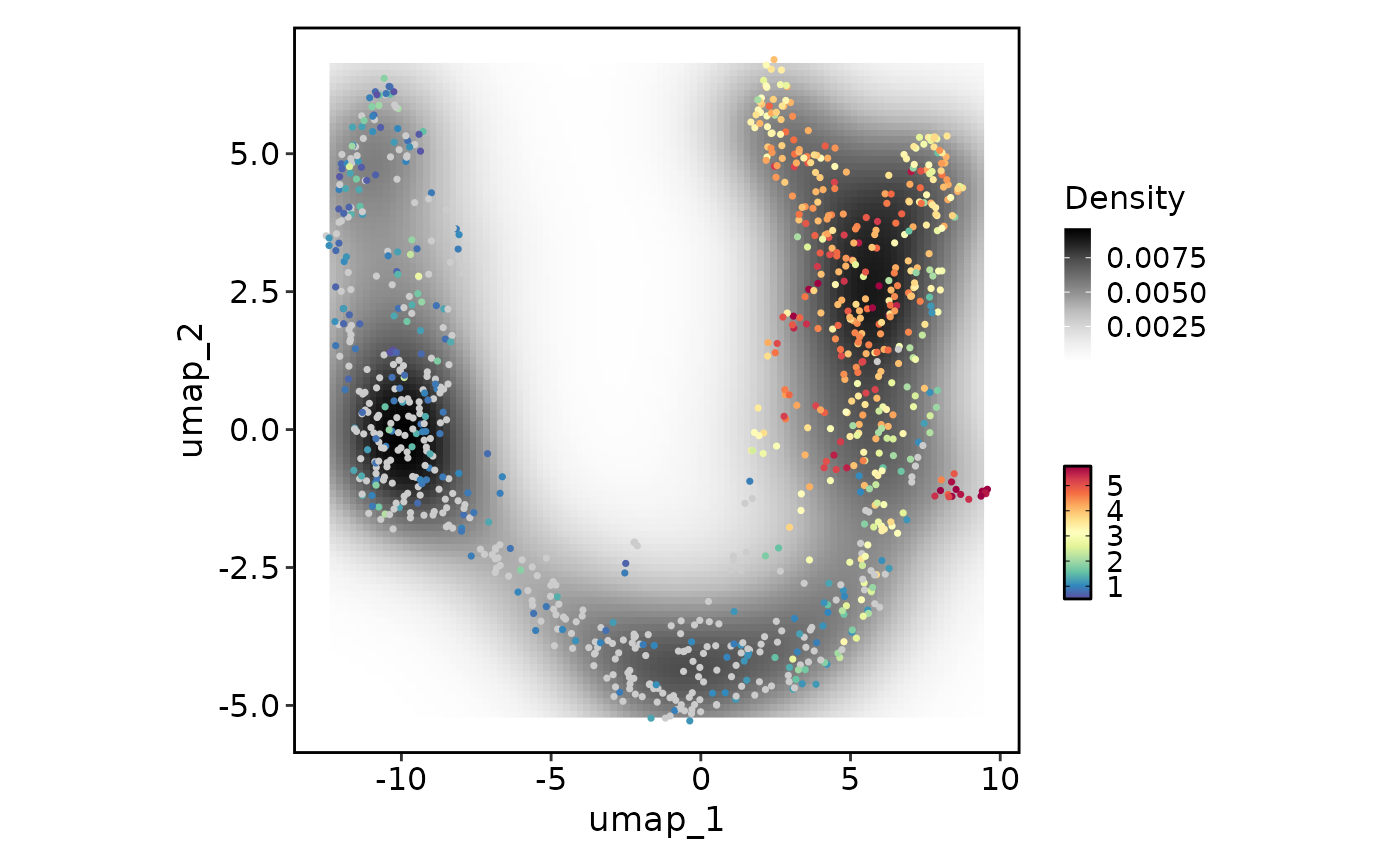
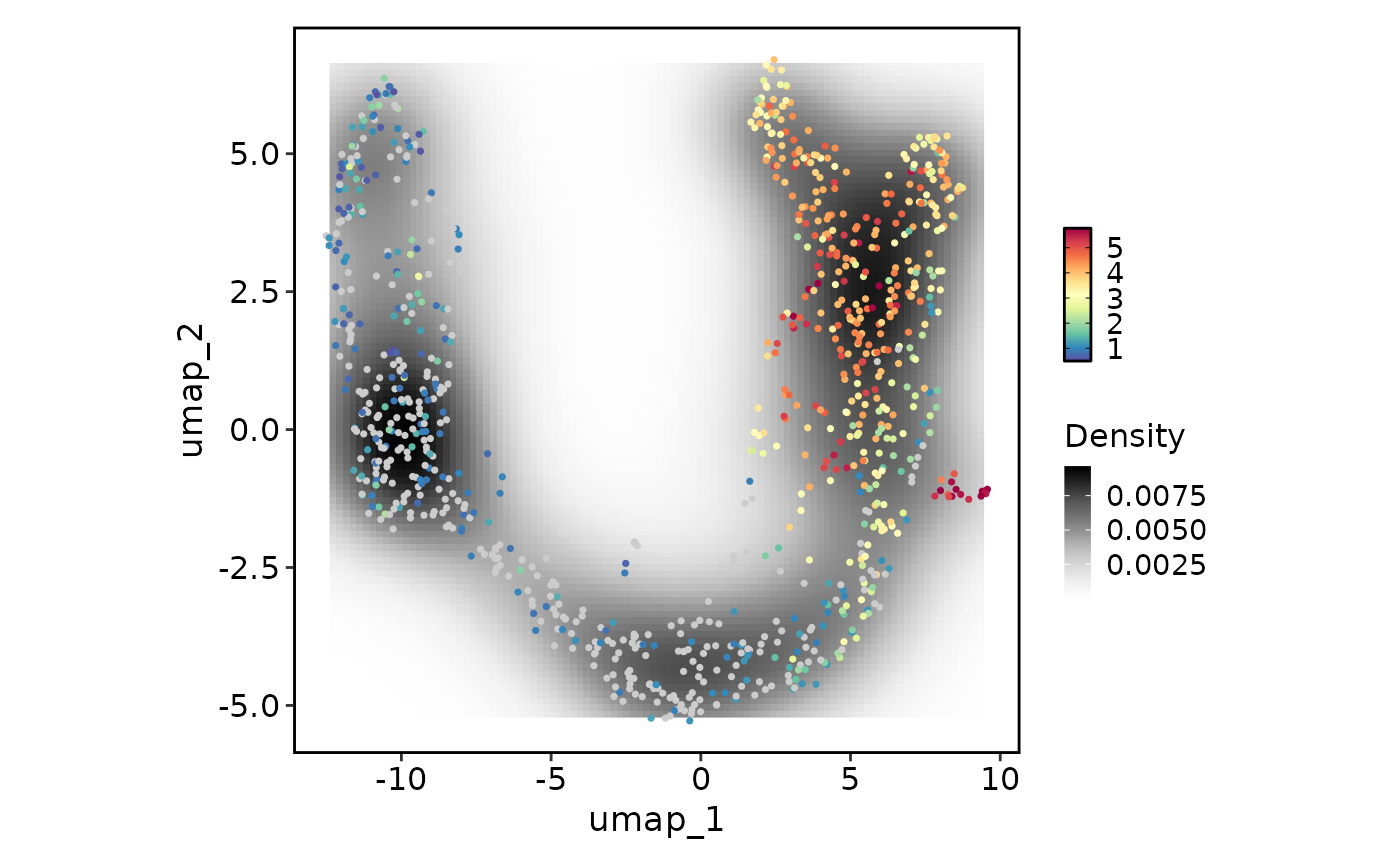
Deploying to gh-pages from @ pwwang/scplotter@fe382f76495dcb9b5c524df514f2df25f0bd13cd 🚀

Changed region(s): [[0.7371, 0.2182, 0.86, 0.4365], [0.7371, 0.4988, 0.86, 0.7171]]

diff --git a/articles/Visualizing_data_with_LLMs.html b/articles/Visualizing_data_with_LLMs.html
@@ -25,7 +25,7 @@
 
     <a class="navbar-brand me-2" href="../index.html">scplotter</a>
 
-    <small class="nav-text text-muted me-auto" data-bs-toggle="tooltip" data-bs-placement="bottom" title="">0.7.5</small>
+    <small class="nav-text text-muted me-auto" data-bs-toggle="tooltip" data-bs-placement="bottom" title="">0.7.6</small>
 
 
     <button class="navbar-toggler" type="button" data-bs-toggle="collapse" data-bs-target="#navbar" aria-controls="navbar" aria-expanded="false" aria-label="Toggle navigation">
@@ -947,7 +947,7 @@ for visualization.</p>
 <span><span class="co">#&gt; required to skim dataframes. Skim summary of dataframes currently not shown in</span></span>
 <span><span class="co">#&gt; prompt</span></span>
 <span><span class="co">#&gt; Code ran:</span></span>
-<span><span class="co">#&gt; CCCPlot(data = cellphonedb_res)</span></span></code></pre></div>
+<span><span class="co">#&gt; CCCPlot(cellphonedb_res)</span></span></code></pre></div>
 <p><img src="Visualizing_data_with_LLMs_files/figure-html/unnamed-chunk-6-1.png" class="r-plt" alt="" width="672"></p>
 <div class="sourceCode" id="cb7"><pre class="downlit sourceCode r">
 <code class="sourceCode R"><span><span class="co"># Previous conversation is memorized</span></span>
@@ -960,7 +960,7 @@ for visualization.</p>
 <span><span class="co">#&gt; required to skim dataframes. Skim summary of dataframes currently not shown in</span></span>
 <span><span class="co">#&gt; prompt</span></span>
 <span><span class="co">#&gt; Code ran:</span></span>
-<span><span class="co">#&gt; CCCPlot(data = cellphonedb_res, plot_type = "heatmap")</span></span></code></pre></div>
+<span><span class="co">#&gt; CCCPlot(cellphonedb_res, plot_type = "heatmap")</span></span></code></pre></div>
 <p><img src="Visualizing_data_with_LLMs_files/figure-html/unnamed-chunk-7-1.png" class="r-plt" alt="" width="672"></p>
 <div class="sourceCode" id="cb8"><pre class="downlit sourceCode r">
 <code class="sourceCode R"><span><span class="va">chat</span><span class="op">$</span><span class="fu">ask</span><span class="op">(</span><span class="st">"Add a proper title to the plot"</span><span class="op">)</span></span>
@@ -972,18 +972,18 @@ for visualization.</p>
 <span><span class="co">#&gt; required to skim dataframes. Skim summary of dataframes currently not shown in</span></span>
 <span><span class="co">#&gt; prompt</span></span>
 <span><span class="co">#&gt; Code ran:</span></span>
-<span><span class="co">#&gt; CCCPlot(data = cellphonedb_res, plot_type = "heatmap", title = "Cell-Cell Communication Heatmap")</span></span></code></pre></div>
+<span><span class="co">#&gt; CCCPlot(cellphonedb_res, plot_type = "heatmap", title = "Cell-Cell Communication Heatmap")</span></span></code></pre></div>
 <p><img src="Visualizing_data_with_LLMs_files/figure-html/unnamed-chunk-8-1.png" class="r-plt" alt="" width="672"></p>
 <div class="sourceCode" id="cb9"><pre class="downlit sourceCode r">
 <code class="sourceCode R"><span><span class="co"># To fetch the previous conversation</span></span>
 <span><span class="co"># Note that the response from the LLM is simplified in the history</span></span>
 <span><span class="va">chat</span><span class="op">$</span><span class="fu">get_history</span><span class="op">(</span><span class="op">)</span></span>
-<span><span class="co">#&gt; [1] "User: Generate a cell-cell communication plot for the cellphonedb_res data."                                                                                               </span></span>
-<span><span class="co">#&gt; [2] "Assistant: tool - CCCPlot; data - scplotter::cellphonedb_res; code - CCCPlot(data = cellphonedb_res)"                                                                      </span></span>
-<span><span class="co">#&gt; [3] "User: Do a heatmap instead"                                                                                                                                                </span></span>
-<span><span class="co">#&gt; [4] "Assistant: tool - CCCPlot; data - scplotter::cellphonedb_res; code - CCCPlot(data = cellphonedb_res, plot_type = \"heatmap\")"                                             </span></span>
-<span><span class="co">#&gt; [5] "User: Add a proper title to the plot"                                                                                                                                      </span></span>
-<span><span class="co">#&gt; [6] "Assistant: tool - CCCPlot; data - scplotter::cellphonedb_res; code - CCCPlot(data = cellphonedb_res, plot_type = \"heatmap\", title = \"Cell-Cell Communication Heatmap\")"</span></span>
+<span><span class="co">#&gt; [1] "User: Generate a cell-cell communication plot for the cellphonedb_res data."                                                                                        </span></span>
+<span><span class="co">#&gt; [2] "Assistant: tool - CCCPlot; data - scplotter::cellphonedb_res; code - CCCPlot(cellphonedb_res)"                                                                      </span></span>
+<span><span class="co">#&gt; [3] "User: Do a heatmap instead"                                                                                                                                         </span></span>
+<span><span class="co">#&gt; [4] "Assistant: tool - CCCPlot; data - scplotter::cellphonedb_res; code - CCCPlot(cellphonedb_res, plot_type = \"heatmap\")"                                             </span></span>
+<span><span class="co">#&gt; [5] "User: Add a proper title to the plot"                                                                                                                               </span></span>
+<span><span class="co">#&gt; [6] "Assistant: tool - CCCPlot; data - scplotter::cellphonedb_res; code - CCCPlot(cellphonedb_res, plot_type = \"heatmap\", title = \"Cell-Cell Communication Heatmap\")"</span></span>
 <span></span>
 <span><span class="co"># To clear the history</span></span>
 <span><span class="va">chat</span><span class="op">$</span><span class="fu">clear_history</span><span class="op">(</span><span class="op">)</span></span></code></pre></div>
@@ -3747,10 +3747,10 @@ print the prompt and the response from the LLM.</p>
 <span><span class="co">#&gt; Do not define these objects in your R code.</span></span></code></pre>
 <pre><code><span><span class="co">#&gt; <span style="font-weight: bold;">--- Receiving response from LLM provider: ---</span></span></span></code></pre>
 <pre><code><span><span class="co">#&gt; ```r</span></span>
-<span><span class="co">#&gt; CCCPlot(cellphonedb_res)</span></span>
+<span><span class="co">#&gt; CCCPlot(data = cellphonedb_res)</span></span>
 <span><span class="co">#&gt; ```</span></span></code></pre>
 <pre><code><span><span class="co">#&gt; Code ran:</span></span>
-<span><span class="co">#&gt; CCCPlot(cellphonedb_res)</span></span></code></pre>
+<span><span class="co">#&gt; CCCPlot(data = cellphonedb_res)</span></span></code></pre>
 <p><img src="Visualizing_data_with_LLMs_files/figure-html/unnamed-chunk-10-1.png" class="r-plt" alt="" width="672"></p>
 <p>To only debug a single conversation, you can set <code>verbose</code>
 to <code>TRUE</code> in the <code>ask()</code> method.</p>
@@ -6507,10 +6507,10 @@ to <code>TRUE</code> in the <code>ask()</code> method.</p>
 <span><span class="co">#&gt; Do not define these objects in your R code.</span></span></code></pre>
 <pre><code><span><span class="co">#&gt; <span style="font-weight: bold;">--- Receiving response from LLM provider: ---</span></span></span></code></pre>
 <pre><code><span><span class="co">#&gt; ```r</span></span>
-<span><span class="co">#&gt; CCCPlot(cellphonedb_res)</span></span>
+<span><span class="co">#&gt; CCCPlot(data = cellphonedb_res)</span></span>
 <span><span class="co">#&gt; ```</span></span></code></pre>
 <pre><code><span><span class="co">#&gt; Code ran:</span></span>
-<span><span class="co">#&gt; CCCPlot(cellphonedb_res)</span></span></code></pre>
+<span><span class="co">#&gt; CCCPlot(data = cellphonedb_res)</span></span></code></pre>
 <p><img src="Visualizing_data_with_LLMs_files/figure-html/unnamed-chunk-11-1.png" class="r-plt" alt="" width="672"></p>
 </div>
   </main><aside class="col-md-3"><nav id="toc" aria-label="Table of contents"><h2>On this page</h2>

diff --git a/authors.html b/authors.html
@@ -7,7 +7,7 @@
 
     <a class="navbar-brand me-2" href="index.html">scplotter</a>
 
-    <small class="nav-text text-muted me-auto" data-bs-toggle="tooltip" data-bs-placement="bottom" title="">0.7.5</small>
+    <small class="nav-text text-muted me-auto" data-bs-toggle="tooltip" data-bs-placement="bottom" title="">0.7.6</small>
 
 
     <button class="navbar-toggler" type="button" data-bs-toggle="collapse" data-bs-target="#navbar" aria-controls="navbar" aria-expanded="false" aria-label="Toggle navigation">
@@ -69,13 +69,13 @@
 
       <p>Wang P (2026).
 <em>scplotter: Publication Quality Plots for Single Cell and Spatial Data Analysis</em>.
-R package version 0.7.5, <a href="https://github.com/pwwang/scplotter" class="external-link">https://github.com/pwwang/scplotter</a>.
+R package version 0.7.6, <a href="https://github.com/pwwang/scplotter" class="external-link">https://github.com/pwwang/scplotter</a>.
 </p>
       <pre>@Manual{,
   title = {scplotter: Publication Quality Plots for Single Cell and Spatial Data Analysis},
   author = {Panwen Wang},
   year = {2026},
-  note = {R package version 0.7.5},
+  note = {R package version 0.7.6},
   url = {https://github.com/pwwang/scplotter},
 }</pre>
     </div>

diff --git a/news/index.html b/news/index.html
@@ -7,7 +7,7 @@
 
     <a class="navbar-brand me-2" href="../index.html">scplotter</a>
 
-    <small class="nav-text text-muted me-auto" data-bs-toggle="tooltip" data-bs-placement="bottom" title="">0.7.5</small>
+    <small class="nav-text text-muted me-auto" data-bs-toggle="tooltip" data-bs-placement="bottom" title="">0.7.6</small>
 
 
     <button class="navbar-toggler" type="button" data-bs-toggle="collapse" data-bs-target="#navbar" aria-controls="navbar" aria-expanded="false" aria-label="Toggle navigation">
@@ -59,6 +59,7 @@
 <h2 class="pkg-version" data-toc-text="0.7.6" id="version-076">Version 0.7.6<a class="anchor" aria-label="anchor" href="#version-076"></a></h2>
 <ul><li>fix(CCCPlot): clarify link_alpha usage in parameter documentation</li>
 <li>fix(CCCPlot): ensure link_width_by defaults to magnitude in linkedheatmap</li>
+<li>fix: adapt plot APIs/docs for plotthis 0.13</li>
 </ul></div>
     <div class="section level2">
 <h2 class="pkg-version" data-toc-text="0.7.5" id="version-075">Version 0.7.5<a class="anchor" aria-label="anchor" href="#version-075"></a></h2>

diff --git a/404.html b/404.html
@@ -26,7 +26,7 @@
 
     <a class="navbar-brand me-2" href="https://pwwang.github.io/scplotter/index.html">scplotter</a>
 
-    <small class="nav-text text-muted me-auto" data-bs-toggle="tooltip" data-bs-placement="bottom" title="">0.7.5</small>
+    <small class="nav-text text-muted me-auto" data-bs-toggle="tooltip" data-bs-placement="bottom" title="">0.7.6</small>
 
 
     <button class="navbar-toggler" type="button" data-bs-toggle="collapse" data-bs-target="#navbar" aria-controls="navbar" aria-expanded="false" aria-label="Toggle navigation">

diff --git a/LICENSE.html b/LICENSE.html
@@ -7,7 +7,7 @@
 
     <a class="navbar-brand me-2" href="index.html">scplotter</a>
 
-    <small class="nav-text text-muted me-auto" data-bs-toggle="tooltip" data-bs-placement="bottom" title="">0.7.5</small>
+    <small class="nav-text text-muted me-auto" data-bs-toggle="tooltip" data-bs-placement="bottom" title="">0.7.6</small>
 
 
     <button class="navbar-toggler" type="button" data-bs-toggle="collapse" data-bs-target="#navbar" aria-controls="navbar" aria-expanded="false" aria-label="Toggle navigation">

diff --git a/articles/Giotto_CODEX.html b/articles/Giotto_CODEX.html
@@ -25,7 +25,7 @@
 
     <a class="navbar-brand me-2" href="../index.html">scplotter</a>
 
-    <small class="nav-text text-muted me-auto" data-bs-toggle="tooltip" data-bs-placement="bottom" title="">0.7.5</small>
+    <small class="nav-text text-muted me-auto" data-bs-toggle="tooltip" data-bs-placement="bottom" title="">0.7.6</small>
 
 
     <button class="navbar-toggler" type="button" data-bs-toggle="collapse" data-bs-target="#navbar" aria-controls="navbar" aria-expanded="false" aria-label="Toggle navigation">

diff --git a/articles/Giotto_Nanostring_CosMx.html b/articles/Giotto_Nanostring_CosMx.html
@@ -25,7 +25,7 @@
 
     <a class="navbar-brand me-2" href="../index.html">scplotter</a>
 
-    <small class="nav-text text-muted me-auto" data-bs-toggle="tooltip" data-bs-placement="bottom" title="">0.7.5</small>
+    <small class="nav-text text-muted me-auto" data-bs-toggle="tooltip" data-bs-placement="bottom" title="">0.7.6</small>
 
 
     <button class="navbar-toggler" type="button" data-bs-toggle="collapse" data-bs-target="#navbar" aria-controls="navbar" aria-expanded="false" aria-label="Toggle navigation">

diff --git a/articles/Giotto_SlideSeq.html b/articles/Giotto_SlideSeq.html
@@ -25,7 +25,7 @@
 
     <a class="navbar-brand me-2" href="../index.html">scplotter</a>
 
-    <small class="nav-text text-muted me-auto" data-bs-toggle="tooltip" data-bs-placement="bottom" title="">0.7.5</small>
+    <small class="nav-text text-muted me-auto" data-bs-toggle="tooltip" data-bs-placement="bottom" title="">0.7.6</small>
 
 
     <button class="navbar-toggler" type="button" data-bs-toggle="collapse" data-bs-target="#navbar" aria-controls="navbar" aria-expanded="false" aria-label="Toggle navigation">

diff --git a/articles/Giotto_Spatial_CITE-Seq.html b/articles/Giotto_Spatial_CITE-Seq.html
@@ -25,7 +25,7 @@
 
     <a class="navbar-brand me-2" href="../index.html">scplotter</a>
 
-    <small class="nav-text text-muted me-auto" data-bs-toggle="tooltip" data-bs-placement="bottom" title="">0.7.5</small>
+    <small class="nav-text text-muted me-auto" data-bs-toggle="tooltip" data-bs-placement="bottom" title="">0.7.6</small>
 
 
     <button class="navbar-toggler" type="button" data-bs-toggle="collapse" data-bs-target="#navbar" aria-controls="navbar" aria-expanded="false" aria-label="Toggle navigation">

diff --git a/articles/Giotto_Visium.html b/articles/Giotto_Visium.html
@@ -25,7 +25,7 @@
 
     <a class="navbar-brand me-2" href="../index.html">scplotter</a>
 
-    <small class="nav-text text-muted me-auto" data-bs-toggle="tooltip" data-bs-placement="bottom" title="">0.7.5</small>
+    <small class="nav-text text-muted me-auto" data-bs-toggle="tooltip" data-bs-placement="bottom" title="">0.7.6</small>
 
 
     <button class="navbar-toggler" type="button" data-bs-toggle="collapse" data-bs-target="#navbar" aria-controls="navbar" aria-expanded="false" aria-label="Toggle navigation">

diff --git a/articles/Giotto_VisiumHD.html b/articles/Giotto_VisiumHD.html
@@ -25,7 +25,7 @@
 
     <a class="navbar-brand me-2" href="../index.html">scplotter</a>
 
-    <small class="nav-text text-muted me-auto" data-bs-toggle="tooltip" data-bs-placement="bottom" title="">0.7.5</small>
+    <small class="nav-text text-muted me-auto" data-bs-toggle="tooltip" data-bs-placement="bottom" title="">0.7.6</small>
 
 
     <button class="navbar-toggler" type="button" data-bs-toggle="collapse" data-bs-target="#navbar" aria-controls="navbar" aria-expanded="false" aria-label="Toggle navigation">

diff --git a/articles/Giotto_Xenium.html b/articles/Giotto_Xenium.html
@@ -25,7 +25,7 @@
 
     <a class="navbar-brand me-2" href="../index.html">scplotter</a>
 
-    <small class="nav-text text-muted me-auto" data-bs-toggle="tooltip" data-bs-placement="bottom" title="">0.7.5</small>
+    <small class="nav-text text-muted me-auto" data-bs-toggle="tooltip" data-bs-placement="bottom" title="">0.7.6</small>
 
 
     <button class="navbar-toggler" type="button" data-bs-toggle="collapse" data-bs-target="#navbar" aria-controls="navbar" aria-expanded="false" aria-label="Toggle navigation">